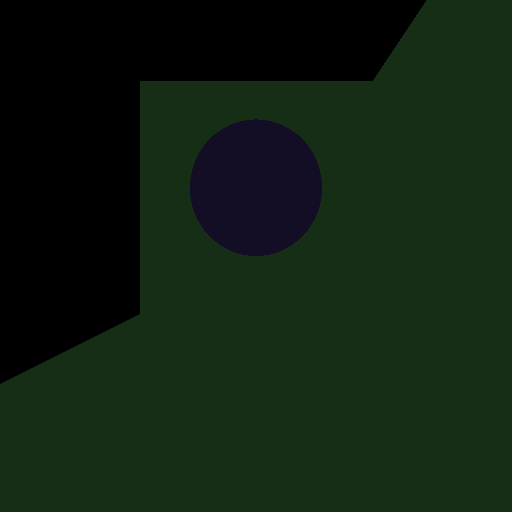
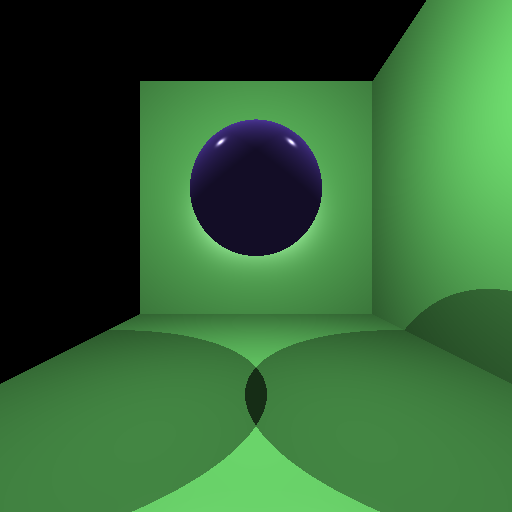
fix for point lights

diff --git a/src/services/render_service.rs b/src/services/render_service.rs
@@ -1,128 +1,3 @@
-// use crate::models::scene::Scene;
-// use crate::models::ray::Ray;
-// use crate::models::intersection::Intersection;
-// use crate::models::surface::Surface;
-// use crate::models::color::Color;
-// use image::{RgbImage, Rgb};
-// use std::path::Path;
-//
-// /// Service to generate a ray traced image from a scene
-// pub struct RenderService;
-//
-// impl RenderService {
-//     /// Generates and saves the ray traced image
-//     pub fn generate_image(scene: &Scene) {
-//         let camera = &scene.camera;
-//         let width = camera.resolution.horizontal;
-//         let height = camera.resolution.vertical;
-//         let max_bounces = scene.camera.max_bounces.n; // Retrieve max bounces
-//
-//         // Create an empty image
-//         let mut img = RgbImage::new(width, height);
-//
-//         for y in 0..height {
-//             for x in 0..width {
-//                 let ray = camera.generate_ray(x, y);
-//                 let color = Self::trace_ray(&ray, &scene, max_bounces);
-//                 let pixel = Rgb([
-//                     (color.r * 255.0) as u8,
-//                     (color.g * 255.0) as u8,
-//                     (color.b * 255.0) as u8,
-//                 ]);
-//                 img.put_pixel(x, y, pixel);
-//             }
-//         }
-//
-//         // Save the image to the specified output file
-//         let output_path = Path::new("output").join(&scene.output_file);
-//         img.save(output_path).expect("Failed to save the image.");
-//         println!("Image saved to: output/{}", scene.output_file);
-//     }
-//
-//     /// source: https://raytracing.github.io/books/RayTracingInOneWeekend.html#diffusematerials/truelambertianreflection
-//     fn trace_ray(ray: &Ray, scene: &Scene, depth: u32) -> Color {
-//         if depth == 0 {
-//             return scene.background_color;
-//         }
-//
-//         let mut closest_intersection: Option<Intersection> = None;
-//
-//         // Find the closest intersection
-//         for surface in &scene.surfaces.spheres {
-//             if let Some(intersection) = surface.intersect(ray) {
-//                 if let Some(closest) = &closest_intersection {
-//                     if intersection.t < closest.t {
-//                         closest_intersection = Some(intersection);
-//                     }
-//                 } else {
-//                     closest_intersection = Some(intersection);
-//                 }
-//             }
-//         }
-//
-//         if let Some(intersection) = closest_intersection {
-//             let mut final_color = Color::new(0.0, 0.0, 0.0); // Black as initial color
-//
-//             let material = &intersection.material;
-//             let normal = intersection.normal;
-//             let view_dir = -ray.direction.normalize(); // View direction
-//
-//             // Ambient Light
-//             if let Some(ambient) = &scene.lights.ambient_light {
-//                 let ambient_color = material.color * ambient.color;
-//                 final_color += ambient_color * material.phong.ka;
-//             }
-//
-//             // Parallel Light
-//             if let Some(parallel) = &scene.lights.parallel_light {
-//                 let light_dir = -parallel.direction.normalize();
-//
-//                 // Cast a shadow ray
-//                 let shadow_ray = Ray::new(
-//                     intersection.point + normal * 1e-4, // Offset to avoid self-intersections
-//                     light_dir,
-//                     1e-4,
-//                     f64::INFINITY,
-//                 );
-//
-//                 // Check for occlusion
-//                 let mut in_shadow = false;
-//                 for surface in &scene.surfaces.spheres {
-//                     if let Some(_) = surface.intersect(&shadow_ray) {
-//                         in_shadow = true; // Object blocks light
-//                         break;
-//                     }
-//                 }
-//
-//                 if !in_shadow {
-//                     // Only calculate lighting if not in shadow
-//
-//                     // Diffuse Component
-//                     let diffuse_intensity = normal.dot(light_dir).max(0.0);
-//                     let diffuse_color = material.color * parallel.color * diffuse_intensity;
-//
-//                     // Specular Component
-//                     let reflection_dir =
-//                         (normal * (2.0 * normal.dot(light_dir)) - light_dir).normalize();
-//                     let specular_intensity = view_dir
-//                         .dot(reflection_dir)
-//                         .max(0.0)
-//                         .powf(material.phong.exponent);
-//                     let specular_color = parallel.color * specular_intensity * material.phong.ks;
-//
-//                     final_color += diffuse_color * material.phong.kd;
-//                     final_color += specular_color;
-//                 }
-//             }
-//
-//             return final_color;
-//         }
-//
-//         scene.background_color // No intersection
-//     }
-// }
-
-
 use crate::models::scene::Scene;
 use crate::models::ray::Ray;
 use crate::models::intersection::Intersection;
@@ -130,7 +5,6 @@ use crate::models::surface::{Surface, SurfaceType};
 use crate::models::color::Color;
 use image::{RgbImage, Rgb};
 use std::path::Path;
-use crate::models::lights::{AmbientLight, ParallelLight};
 use crate::models::material::MaterialSolid;
 use crate::models::point::Point;
 use crate::models::vector::Vector;
@@ -152,27 +26,28 @@ impl RenderService {
             for x in 0..width {
                 let ray = camera.generate_ray(x, y);
                 let color = Self::trace_ray(&ray, scene, max_bounces);
-                let pixel = Self::color_to_rgb(color);
-                img.put_pixel(x, y, pixel);
+                img.put_pixel(x, y, Self::color_to_rgb(color));
             }
         }
 
         Self::save_image(img, scene);
     }
 
+    /// Casts a ray into the scene and returns the color from the closest intersection,
+    /// or the background color if there is none.
     fn trace_ray(ray: &Ray, scene: &Scene, depth: u32) -> Color {
         if depth == 0 {
             return scene.background_color;
         }
 
         if let Some(intersection) = Self::find_closest_intersection(ray, scene) {
-            Self::calculate_lighting(intersection, ray, scene, depth)
+            Self::calculate_lighting(&intersection, ray, scene, depth)
         } else {
             scene.background_color
         }
     }
 
-    /// Finds the closest intersection with any surface in the scene
+    /// Finds the closest intersection of a ray with any surface in the scene.
     fn find_closest_intersection(ray: &Ray, scene: &Scene) -> Option<Intersection> {
         let mut closest = None;
 
@@ -182,7 +57,7 @@ impl RenderService {
                     if let Some(intersection) = sphere.intersect(ray) {
                         closest = Self::keep_closest(closest, intersection);
                     }
-                },
+                }
                 SurfaceType::Mesh(mesh) => {
                     for triangle in &mesh.triangles {
                         if let Some(intersection) = triangle.intersect(ray, &mesh.material_solid) {
@@ -196,32 +71,88 @@ impl RenderService {
         closest
     }
 
-    /// Calculates lighting contributions for a surface intersection
-    fn calculate_lighting(intersection: Intersection, ray: &Ray, scene: &Scene, depth: u32) -> Color {
+    /// Calculates lighting at an intersection. (Note that reflection/refraction
+    /// can be added later by making this function recursive.)
+    fn calculate_lighting(intersection: &Intersection, ray: &Ray, scene: &Scene, _depth: u32) -> Color {
         let material = &intersection.material;
         let normal = intersection.normal;
         let view_dir = -ray.direction.normalize();
+        let point = intersection.point;
 
         let mut color = Color::new(0.0, 0.0, 0.0);
 
-        // Ambient lighting
+        // Ambient lighting (same for all surfaces)
         for ambient in &scene.lights.ambient_light {
-            color += Self::calculate_ambient(material, ambient);
+            color += material.color * ambient.color * material.phong.ka;
         }
 
-        // Directional lighting
+        // Parallel (directional) lights: no distance attenuation (max_distance = INFINITY)
         for parallel in &scene.lights.parallel_light {
-            if !Self::is_in_shadow(&intersection.point, normal, parallel.direction, scene) {
-                color += Self::calculate_diffuse(material, parallel, normal);
-                color += Self::calculate_specular(material, parallel, normal, view_dir);
+            let light_dir = -parallel.direction.normalize();
+            if !Self::is_in_shadow(&point, normal, light_dir, f64::INFINITY, scene) {
+                color += Self::calc_diffuse(material, parallel.color, light_dir, normal, 1.0);
+                color += Self::calc_specular(material, parallel.color, light_dir, normal, view_dir, 1.0);
+            }
+        }
+
+        // Point lights: include attenuation and intensity boost
+        let light_intensity = 1.7; // Adjust this as needed
+        for point_light in &scene.lights.point_light {
+            let to_light = point_light.position - point;
+            let distance = to_light.length();
+            let light_dir = to_light.normalize();
+
+            if !Self::is_in_shadow(&point, normal, light_dir, distance, scene) {
+                // Soft attenuation: adjust the constants to tune falloff behavior
+                let attenuation = 1.0 / (1.0 + 0.1 * distance + 0.01 * distance * distance);
+                let factor = attenuation * light_intensity;
+
+                color += Self::calc_diffuse(material, point_light.color, light_dir, normal, factor);
+                color += Self::calc_specular(material, point_light.color, light_dir, normal, view_dir, factor);
             }
         }
 
         color
     }
 
-    // Helper functions --------------------------------------------------------
+    /// Returns true if an object is between the point and the light.
+    /// For parallel lights, use max_distance = f64::INFINITY.
+    fn is_in_shadow(point: &Point, normal: Vector, light_dir: Vector, max_distance: f64, scene: &Scene) -> bool {
+        let shadow_ray = Ray::new(
+            *point + normal * 1e-4, // Offset to avoid self-intersection
+            light_dir.normalize(),
+            1e-4,
+            max_distance - 1e-4,    // Stop just before the light (if finite)
+        );
 
+        scene.surfaces.surfaces.iter().any(|surface| match surface {
+            SurfaceType::Sphere(sphere) => sphere.intersect(&shadow_ray).is_some(),
+            SurfaceType::Mesh(mesh) => mesh.triangles.iter()
+                .any(|triangle| triangle.intersect(&shadow_ray, &mesh.material_solid).is_some()),
+        })
+    }
+
+    /// Calculates the diffuse contribution from a light.
+    fn calc_diffuse(material: &MaterialSolid, light_color: Color, light_dir: Vector, normal: Vector, factor: f64) -> Color {
+        let diffuse_intensity = normal.dot(light_dir).max(0.0);
+        material.color * light_color * diffuse_intensity * material.phong.kd * factor
+    }
+
+    /// Calculates the specular contribution from a light.
+    fn calc_specular(
+        material: &MaterialSolid,
+        light_color: Color,
+        light_dir: Vector,
+        normal: Vector,
+        view_dir: Vector,
+        factor: f64,
+    ) -> Color {
+        let reflection_dir = (normal * (2.0 * normal.dot(light_dir)) - light_dir).normalize();
+        let specular_intensity = view_dir.dot(reflection_dir).max(0.0).powf(material.phong.exponent);
+        light_color * specular_intensity * material.phong.ks * factor
+    }
+
+    /// Keeps the closest intersection (the one with the smallest t value).
     fn keep_closest(current: Option<Intersection>, new: Intersection) -> Option<Intersection> {
         match current {
             Some(closest) if new.t < closest.t => Some(new),
@@ -230,45 +161,7 @@ impl RenderService {
         }
     }
 
-    fn calculate_ambient(material: &MaterialSolid, ambient: &AmbientLight) -> Color {
-        material.color * ambient.color * material.phong.ka
-    }
-
-    fn calculate_diffuse(material: &MaterialSolid, light: &ParallelLight, normal: Vector) -> Color {
-        let light_dir = -light.direction.normalize();
-        let diffuse_intensity = normal.dot(light_dir).max(0.0);
-        material.color * light.color * diffuse_intensity * material.phong.kd
-    }
-
-    fn calculate_specular(
-        material: &MaterialSolid,
-        light: &ParallelLight,
-        normal: Vector,
-        view_dir: Vector,
-    ) -> Color {
-        let light_dir = -light.direction.normalize();
-        let reflection_dir = (normal * (2.0 * normal.dot(light_dir)) - light_dir).normalize();
-        let specular_intensity = view_dir.dot(reflection_dir).max(0.0).powf(material.phong.exponent);
-        light.color * specular_intensity * material.phong.ks
-    }
-
-    fn is_in_shadow(point: &Point, normal: Vector, light_dir: Vector, scene: &Scene) -> bool {
-        let shadow_ray = Ray::new(
-            *point + normal * 1e-4,
-            -light_dir.normalize(),
-            1e-4,
-            f64::INFINITY,
-        );
-
-        scene.surfaces.surfaces.iter().any(|surface| {
-            match surface {
-                SurfaceType::Sphere(sphere) => sphere.intersect(&shadow_ray).is_some(),
-                SurfaceType::Mesh(mesh) => mesh.triangles.iter()
-                    .any(|triangle| triangle.intersect(&shadow_ray, &mesh.material_solid).is_some())
-            }
-        })
-    }
-
+    /// Converts a Color (with components in [0,1]) to an 8-bit RGB pixel.
     fn color_to_rgb(color: Color) -> Rgb<u8> {
         Rgb([
             (color.r.clamp(0.0, 1.0) * 255.0) as u8,
@@ -277,9 +170,10 @@ impl RenderService {
         ])
     }
 
+    /// Saves the final image to the specified output file.
     fn save_image(img: RgbImage, scene: &Scene) {
         let output_path = Path::new("output").join(&scene.output_file);
-        img.save(output_path).expect("Failed to save image");
-        println!("Image saved to: output/{}", scene.output_file);
+        img.save(&output_path).expect("Failed to save image");
+        println!("Image saved to: {}", output_path.display());
     }
 }

diff --git a/src/models/triangle.rs b/src/models/triangle.rs
@@ -66,7 +66,7 @@ impl Triangle {
 
         // Compute intersection point and normal
         let point = ray.at(t);
-        let normal = e1.cross(e2).normalize();  // Correct normal
+        let normal = self.normal;
 
         Some(Intersection {
             t,

diff --git a/src/services/scene_import_service.rs b/src/services/scene_import_service.rs
@@ -38,8 +38,6 @@ impl SceneImportService {
         let mut scene: Scene = from_str(&content)?;
         scene.load_meshes()?;
 
-        println!("Selected scene: {:?}", scene);
-
         Ok(scene)
     }
 }
